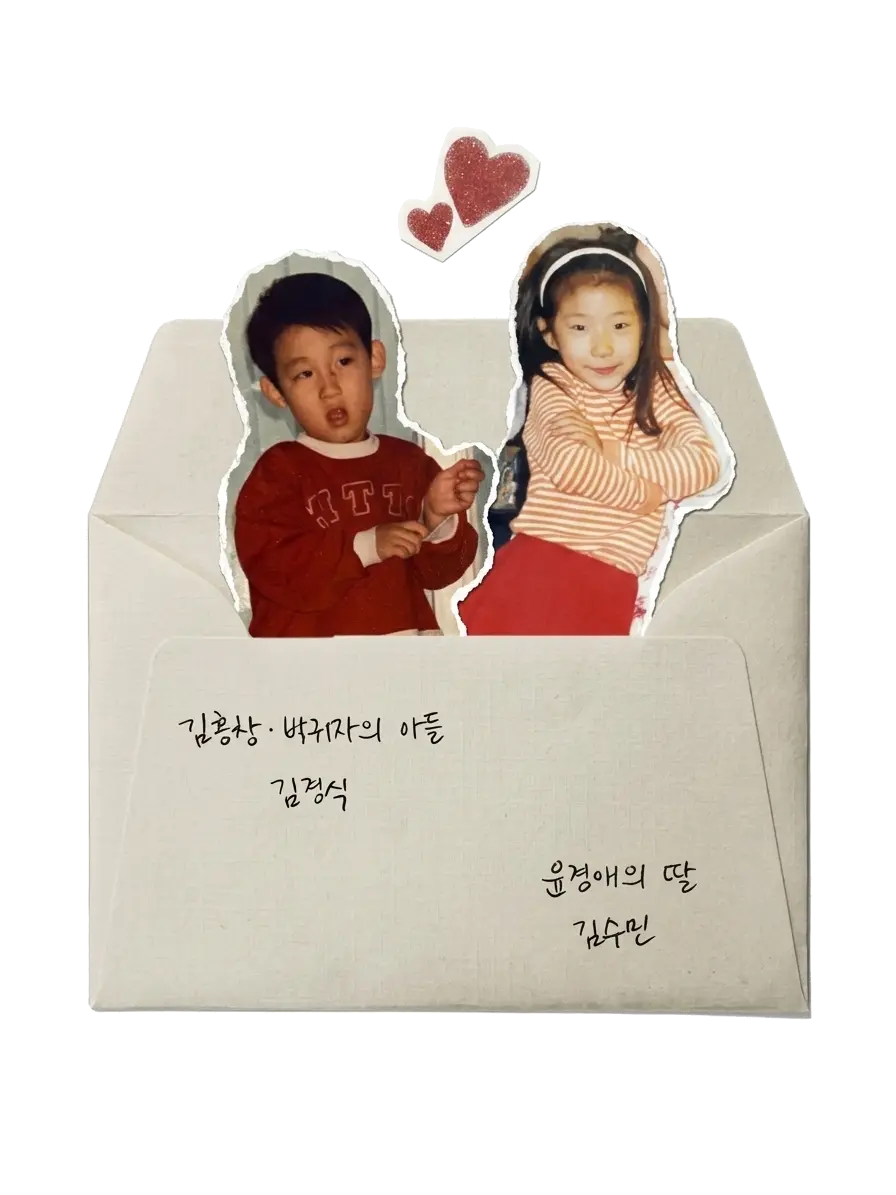
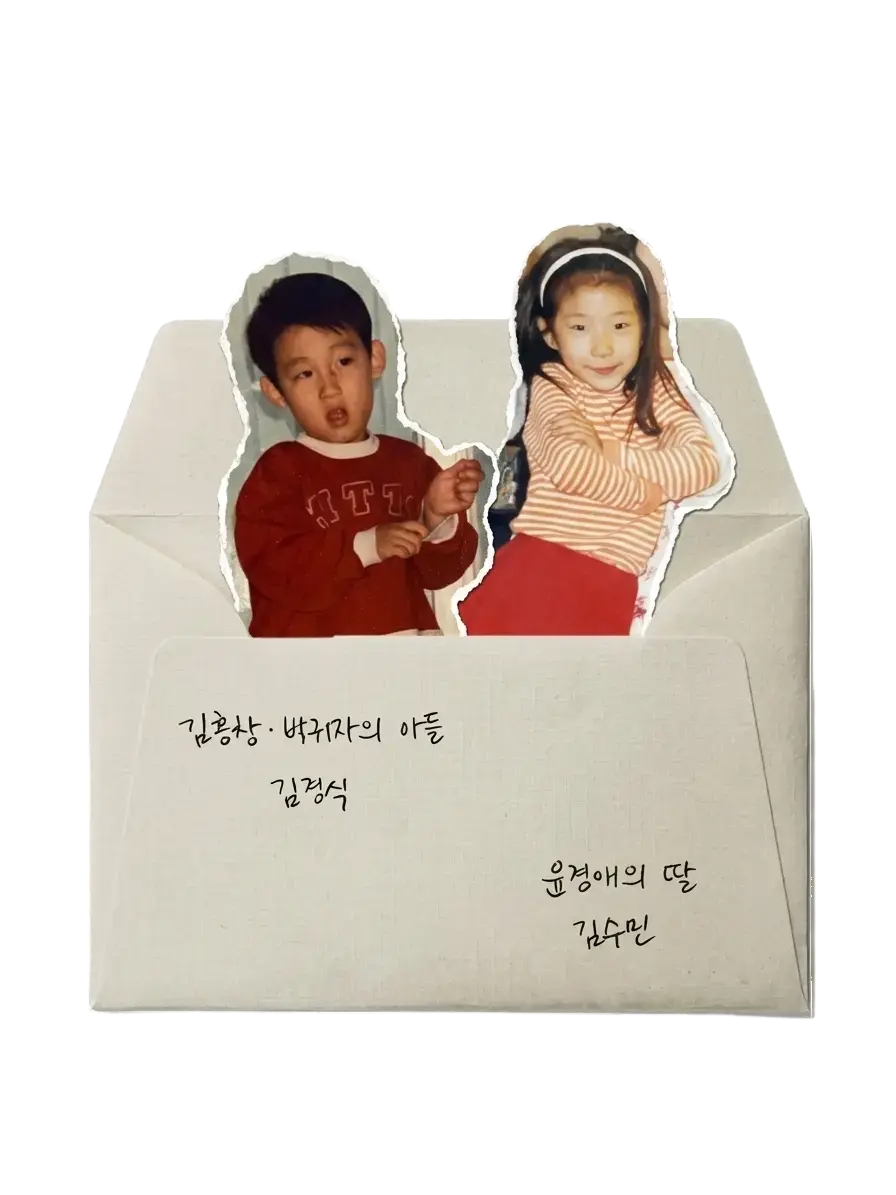
fix: 계좌번호 복사 폴백 추가와 오시는 길 디자인 개편

Changed region(s): [[0.4375, 0.0929, 0.5938, 0.2167], [0.9062, 0.5883, 0.9375, 0.836]]

diff --git a/lib/data.ts b/lib/data.ts
@@ -6,13 +6,12 @@ export const VENUE = {
   lng: 126.97005,
 } as const;
 
-// TODO: 실제 전화번호로 교체 필요 (원본 산출물에 번호 없음)
 export const CONTACTS = [
-  { role: "신랑", name: "김경식", tel: "010-0000-0001" },
-  { role: "신랑 아버지", name: "김홍창", tel: "010-0000-0002" },
-  { role: "신랑 어머니", name: "박귀자", tel: "010-0000-0003" },
-  { role: "신부", name: "김수민", tel: "010-0000-0004" },
-  { role: "신부 어머니", name: "윤경애", tel: "010-0000-0005" },
+  { role: "신랑", name: "김경식", tel: "010-5141-8101" },
+  { role: "신랑 아버지", name: "김홍창", tel: "010-3442-8101" },
+  { role: "신랑 어머니", name: "박귀자", tel: "010-8460-5500" },
+  { role: "신부", name: "김수민", tel: "010-9553-7589" },
+  { role: "신부 어머니", name: "윤경애", tel: "010-6342-7589" },
 ];
 
 export const ACCOUNT_SIDES = [
@@ -20,30 +19,59 @@ export const ACCOUNT_SIDES = [
     key: "groom",
     title: "신랑 측 계좌번호",
     rows: [
-      { role: "신랑", name: "김경식", acct: "카카오뱅크 3333-01-1234567" },
-      { role: "아버지", name: "김홍창", acct: "국민 123-45-6789-012" },
-      { role: "어머니", name: "박귀자", acct: "농협 302-1234-5678-01" },
+      { role: "신랑", name: "김경식", acct: "국민 757102-04-385539" },
+      { role: "아버지", name: "김홍창", acct: "농협 204010-52-126373" },
+      { role: "어머니", name: "박귀자", acct: "새마을 0931-1000-0328-4" },
     ],
   },
   {
     key: "bride",
     title: "신부 측 계좌번호",
     rows: [
-      { role: "신부", name: "김수민", acct: "토스뱅크 1000-1234-5678" },
-      { role: "어머니", name: "윤경애", acct: "신한 110-123-456789" },
+      { role: "신부", name: "김수민", acct: "국민 457002-01-304424" },
+      { role: "어머니", name: "윤경애", acct: "국민 457001-01-370572" },
     ],
   },
 ];
 
-export const TRAFFIC_WAYS = [
-  { title: "지하철 이용 시", body: "4호선 '평촌역' 3번 출구 횡단보도 맞은편" },
+// 색은 실제 노선·수단 색. 4호선 #00A5DE, 서울 지선버스 #53B332, 자가용은 기존 accent.
+type TrafficWay = {
+  label: string;
+  title: string;
+  color: string;
+  lead: string;
+  rows?: { k: string; v: string }[];
+  lots?: { name: string; addr: string; note?: string }[];
+};
+
+export const TRAFFIC_WAYS: TrafficWay[] = [
   {
-    title: "버스 이용 시",
-    body: "'평촌역' 하차\n[일반버스] 1, 6, 22, 52, 52-1, 83\n[마을버스] 2-1, 5, 5-1, 5-5, 6, 6-1, 7, 8, 10-1",
+    label: "SUBWAY",
+    title: "지하철",
+    color: "#00A5DE",
+    lead: "4호선 '평촌역' 3번 출구 횡단보도 맞은편",
   },
   {
-    title: "자가용 이용 시",
-    body: "네비게이션 검색 - '더파티움 안양' 또는 '시민대로 311' 입력\n\n[제1주차장] 더파티움 안양 본건물 지하주차장\n동안구 시민대로 311\n\n[제2주차장] 지아이에스(구. 네온테크) 주차장\n동안구 부림로 146 · 토·일 이용가능 (공휴일 이용불가)\n\n[제3주차장] 이마트 평촌점 주차장\n동안구 시민대로 300\n\n[제4주차장] 평촌 칼라힐 주차빌딩 (2층부터 주차가능)\n동안구 시민대로 312",
+    label: "BUS",
+    title: "버스",
+    color: "#53B332",
+    lead: "'평촌역' 하차",
+    rows: [
+      { k: "일반", v: "1, 6, 22, 52, 52-1, 83" },
+      { k: "마을", v: "2-1, 5, 5-1, 5-5, 6, 6-1, 7, 8, 10-1" },
+    ],
+  },
+  {
+    label: "CAR",
+    title: "자가용",
+    color: "#FF9A42",
+    lead: "네비게이션에 '더파티움 안양' 또는 '시민대로 311' 입력",
+    lots: [
+      { name: "더파티움 안양 본건물 지하주차장", addr: "동안구 시민대로 311" },
+      { name: "지아이에스(구. 네온테크) 주차장", addr: "동안구 부림로 146", note: "토·일 가능 (공휴일 불가)" },
+      { name: "이마트 평촌점 주차장", addr: "동안구 시민대로 300" },
+      { name: "평촌 칼라힐 주차빌딩", addr: "동안구 시민대로 312", note: "2층부터 주차 가능" },
+    ],
   },
 ];
 
@@ -81,8 +109,21 @@ export const TMAP = {
 
 // 네이버·카카오는 앱 미설치 시 웹으로 폴백된다. 티맵만 scheme 플래그로 표시하고
 // Location 에서 플랫폼 분기 + 스토어 폴백을 붙인다.
-export const MAP_APPS: { name: string; logo: string; href: string; scheme?: boolean }[] = [
-  { name: "네이버지도", logo: "/images/naver_map.webp", href: `https://map.naver.com/p/search/${encodeURIComponent(VENUE.query)}` },
+export const MAP_APPS: {
+  name: string;
+  logo: string;
+  href: string;
+  scheme?: boolean;
+}[] = [
+  {
+    name: "네이버지도",
+    logo: "/images/naver_map.webp",
+    href: `https://map.naver.com/p/search/${encodeURIComponent(VENUE.query)}`,
+  },
   { name: "티맵", logo: "/images/tmap.svg", href: TMAP.android, scheme: true },
-  { name: "카카오맵", logo: "/images/kakao_map.webp", href: `https://map.kakao.com/link/to/${encodeURIComponent(VENUE.query)},${VENUE.lat},${VENUE.lng}` },
+  {
+    name: "카카오맵",
+    logo: "/images/kakao_map.webp",
+    href: `https://map.kakao.com/link/to/${encodeURIComponent(VENUE.query)},${VENUE.lat},${VENUE.lng}`,
+  },
 ];

diff --git a/components/Location.tsx b/components/Location.tsx
@@ -64,20 +64,56 @@ export function Location({
         ))}
       </div>
 
-      <div className="mt-[22px] grid gap-5 overflow-hidden rounded-2xl border border-[#F1ECEC]
-        bg-[rgb(253,252,252)] px-[22px] py-6">
-        {TRAFFIC_WAYS.map((w, i) => (
-          <div key={w.title} className={i ? "border-t border-[#F1ECEC] pt-5" : undefined}>
-            <div className="flex items-center gap-2">
-              <span className="h-1.5 w-1.5 rounded-[99px] bg-[#FF9A42]" />
-              <span className="text-[13px] text-[#404040]">{w.title}</span>
+      <div className="mt-8 grid gap-7">
+        {TRAFFIC_WAYS.map((w) => (
+          // 색이 데이터에서 오므로 Tailwind 임의값 클래스로는 JIT 가 못 만든다.
+          <div key={w.label} style={{ borderColor: w.color }} className="border-l pl-4">
+            <div className="flex items-baseline gap-2">
+              <span
+                style={{ color: w.color }}
+                className="font-heading text-[10px] font-semibold tracking-[.16em]"
+              >
+                {w.label}
+              </span>
+              <span className="text-[11.5px] text-[#B0A8A2]">{w.title}</span>
             </div>
-            <div className="mt-2 text-[12.5px] leading-[1.95] whitespace-pre-line text-[#5E5E5E]">
-              {w.body}
-            </div>
+
+            <p className="mt-2.5 mb-0 text-[12.5px] leading-[1.85] text-[#4A4A4A]">{w.lead}</p>
+
+            {w.rows && (
+              <div className="mt-2.5 grid gap-1.5">
+                {w.rows.map((r) => (
+                  <div key={r.k} className="flex gap-3 text-[12.5px] leading-[1.6]">
+                    <span className="w-7 shrink-0 text-[#B0A8A2]">{r.k}</span>
+                    <span className="text-[#5E5E5E]">{r.v}</span>
+                  </div>
+                ))}
+              </div>
+            )}
+
+            {w.lots && (
+              <ol className="mt-3.5 grid list-none gap-3 p-0">
+                {w.lots.map((l, i) => (
+                  <li key={l.name} className="flex gap-2.5">
+                    <span className="mt-[2px] flex h-[17px] w-[17px] shrink-0 items-center justify-center
+                      rounded-[99px] bg-[#F1ECE7] font-heading text-[9.5px] font-semibold text-[#8A8079]">
+                      {i + 1}
+                    </span>
+                    <span className="grid gap-[3px]">
+                      <span className="text-[12.5px] leading-[1.45] text-[#4A4A4A]">{l.name}</span>
+                      <span className="text-[11.5px] leading-[1.45] text-[#B0A8A2]">
+                        {l.addr}
+                        {l.note && <span className="text-[#C2856A]"> · {l.note}</span>}
+                      </span>
+                    </span>
+                  </li>
+                ))}
+              </ol>
+            )}
           </div>
         ))}
       </div>
+
     </section>
   );
 }

diff --git a/components/Account.tsx b/components/Account.tsx
@@ -4,18 +4,40 @@ import { SectionHeading } from "./SectionHeading";
 import { ACCOUNT_SIDES } from "@/lib/data";
 import { useToast } from "./Toast";
 
+// ponytail: navigator.clipboard 는 보안 컨텍스트(https/localhost)에만 존재한다. 폰에서 LAN dev(http) 로
+// 열거나 클립보드를 막는 인앱 웹뷰에서는 deprecated 지만 여전히 동작하는 execCommand 로 떨어진다.
+const legacyCopy = (text: string) => {
+  const ta = document.createElement("textarea");
+  ta.value = text;
+  ta.setAttribute("readonly", "");
+  // globals.css 의 body { user-select: none } 때문에 WebKit 에서 선택이 안 된다. 여기서만 되돌린다.
+  ta.style.cssText =
+    "position:fixed;top:0;left:0;width:1px;height:1px;opacity:0;user-select:text;-webkit-user-select:text";
+  document.body.appendChild(ta);
+  ta.select();
+  ta.setSelectionRange(0, text.length); // iOS 는 select() 만으로 범위가 안 잡힌다
+  const ok = document.execCommand("copy");
+  ta.remove();
+  return ok;
+};
+
 export function Account({ revealRef }: { revealRef: (n: HTMLElement | null) => void }) {
   // 원본의 s.acct 와 동일하게 한 번에 한쪽만 열린다.
   const [open, setOpen] = useState<string | null>(null);
   const say = useToast();
 
   const copy = async (text: string, who: string) => {
-    try {
-      await navigator.clipboard.writeText(text);
-      say(`${who} 계좌번호가 복사되었어요`);
-    } catch {
-      say("복사에 실패했어요. 길게 눌러 직접 복사해 주세요");
+    let ok = false;
+    // writeText 가 없으면 await 없이 바로 폴백한다. iOS 는 await 후 유저 제스처가 끊겨
+    // execCommand 가 실패할 수 있다.
+    if (navigator.clipboard?.writeText) {
+      try {
+        await navigator.clipboard.writeText(text);
+        ok = true;
+      } catch {}
     }
+    if (!ok) ok = legacyCopy(text);
+    say(ok ? `${who} 계좌번호가 복사되었어요` : "복사에 실패했어요. 길게 눌러 직접 복사해 주세요");
   };
 
   return (

diff --git a/app/layout.tsx b/app/layout.tsx
@@ -42,9 +42,11 @@ const plexKr = IBM_Plex_Sans_KR({
 });
 
 // OG 이미지는 절대경로여야 카카오톡 미리보기가 뜬다. 커스텀 도메인을 붙이면 NEXT_PUBLIC_SITE_URL 로 덮어쓴다.
-const siteUrl = process.env.NEXT_PUBLIC_SITE_URL ?? "https://ks-sm-wedding-invitation.vercel.app";
+const siteUrl =
+  process.env.NEXT_PUBLIC_SITE_URL ??
+  "https://ks-sm-wedding-invitation.vercel.app";
 
-const TITLE = "경식♥수민 결혼식에 초대합니다.";
+const TITLE = "경식♡수민 결혼식에 초대합니다.";
 const DESCRIPTION =
   "2026년 11월 29일 일요일 오후 4시 20분 · 더파티움 안양 7F 라포레홀";
 
